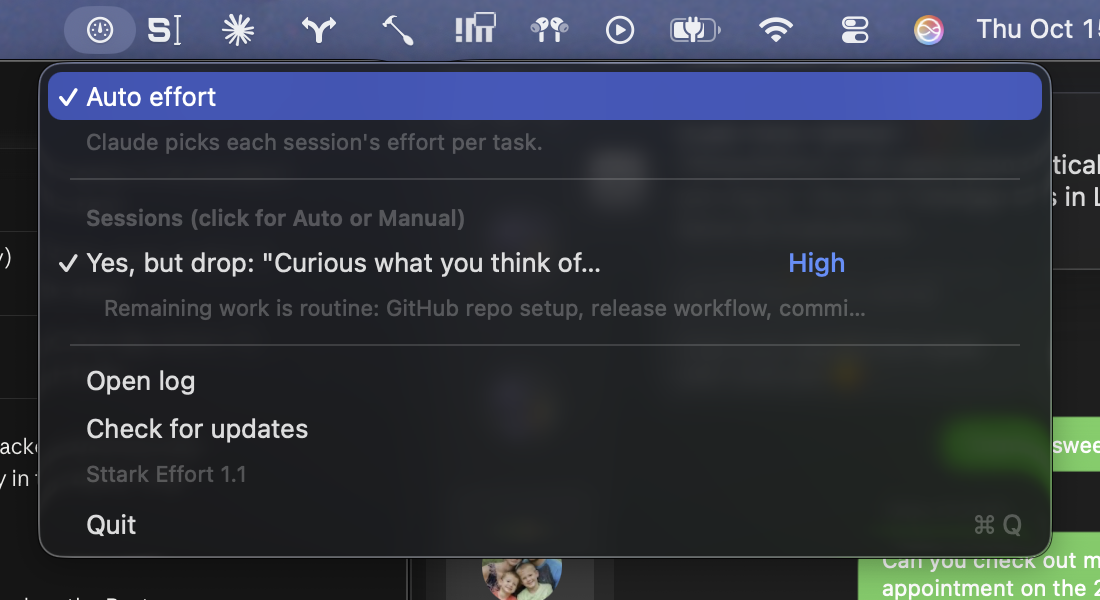
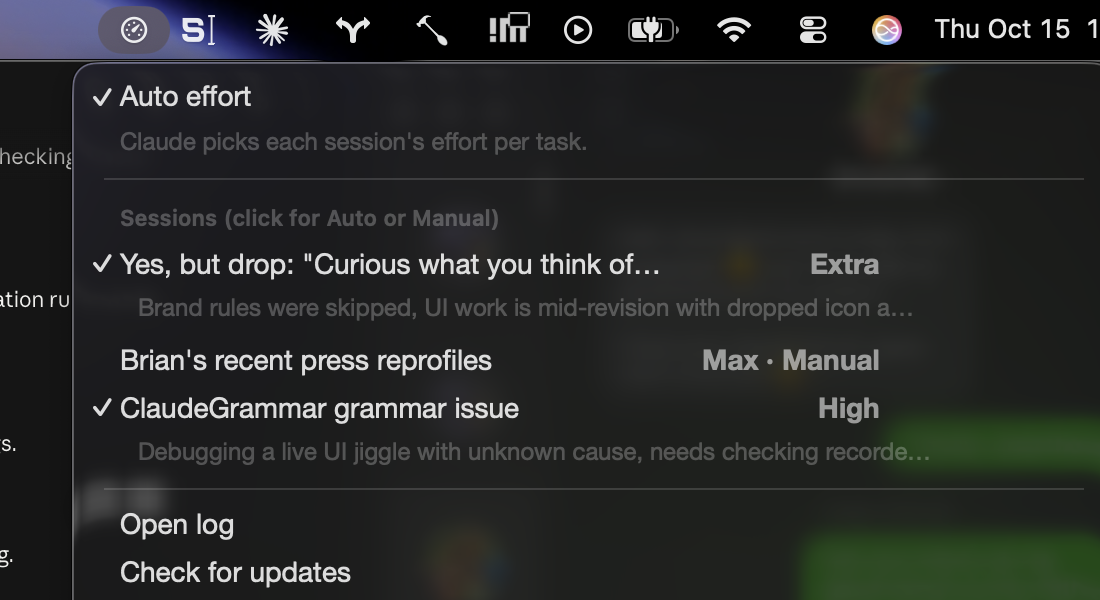
Menu follows the Sttark brand guide: Helvetica Neue 400/600, levels as plain words, no invented level colors
Claude-Session: https://claude.ai/code/session_01DmRNH4SGt9PtvffKmt4WyV

diff --git a/Sources/Menu.swift b/Sources/Menu.swift
@@ -87,34 +87,31 @@ final class Controller: NSObject, NSMenuDelegate {
 
     // MARK: rows
 
+    /// Brand type: Helvetica Neue (the guide's fallback for Founders Grotesk), 400 and 600 only.
+    func font(_ size: CGFloat, _ semibold: Bool = false) -> NSFont {
+        let f = NSFont(name: "Helvetica Neue", size: size) ?? .systemFont(ofSize: size)
+        return semibold ? NSFontManager.shared.convert(f, toHaveTrait: .boldFontMask).withSize(size) : f
+    }
+
+    /// Session name in ink, level as a word in steel. No color for levels: the guide keeps an app's own
+    /// meaning colors few and never green for data, and the word already says the level.
     func row(_ s: Session, dim: Bool) -> NSAttributedString {
         let t = NSMutableAttributedString()
         let title = s.title.count > 42 ? String(s.title.prefix(41)) + "…" : s.title
-        let main: NSColor = dim ? .secondaryLabelColor : .labelColor
-        t.append(NSAttributedString(string: title, attributes: [.font: NSFont.menuFont(ofSize: 0), .foregroundColor: main]))
+        t.append(NSAttributedString(string: title, attributes: [.font: font(14),
+            .foregroundColor: dim ? NSColor.secondaryLabelColor : NSColor.labelColor]))
         let tag = (levelNames[s.level] ?? s.level) + (s.manual ? " · Manual" : "")
         let para = NSMutableParagraphStyle()
         para.tabStops = [NSTextTab(textAlignment: .right, location: 380)]
-        t.append(NSAttributedString(string: "\t" + tag, attributes: [
-            .font: NSFont.monospacedDigitSystemFont(ofSize: NSFont.systemFontSize, weight: .medium),
-            .foregroundColor: s.manual ? NSColor.systemOrange : color(s.level)]))
+        t.append(NSAttributedString(string: "\t" + tag, attributes: [.font: font(14, true),
+            .foregroundColor: NSColor.secondaryLabelColor]))
         t.addAttribute(.paragraphStyle, value: para, range: NSRange(location: 0, length: t.length))
         return t
     }
 
-    func color(_ level: String) -> NSColor {
-        switch level {
-        case "low": return .systemGreen
-        case "medium": return .systemTeal
-        case "high": return .systemBlue
-        case "xhigh": return .systemPurple
-        case "max": return .systemRed
-        default: return .secondaryLabelColor
-        }
-    }
-
     func action(_ title: String, _ sel: Selector, key: String = "", enabled: Bool = true) -> NSMenuItem {
         let i = NSMenuItem(title: title, action: sel, keyEquivalent: key)
+        i.attributedTitle = NSAttributedString(string: title, attributes: [.font: font(14)])
         i.target = self
         i.isEnabled = enabled
         return i
@@ -128,7 +125,7 @@ final class Controller: NSObject, NSMenuDelegate {
     func caption(_ text: String, indent: Int = 0) -> NSMenuItem {
         let i = NSMenuItem(title: "", action: nil, keyEquivalent: "")
         i.attributedTitle = NSAttributedString(string: text.count > 70 ? String(text.prefix(69)) + "…" : text, attributes: [
-            .font: NSFont.systemFont(ofSize: NSFont.smallSystemFontSize), .foregroundColor: NSColor.secondaryLabelColor])
+            .font: font(12), .foregroundColor: NSColor.secondaryLabelColor])
         i.indentationLevel = indent
         i.isEnabled = false
         return i
